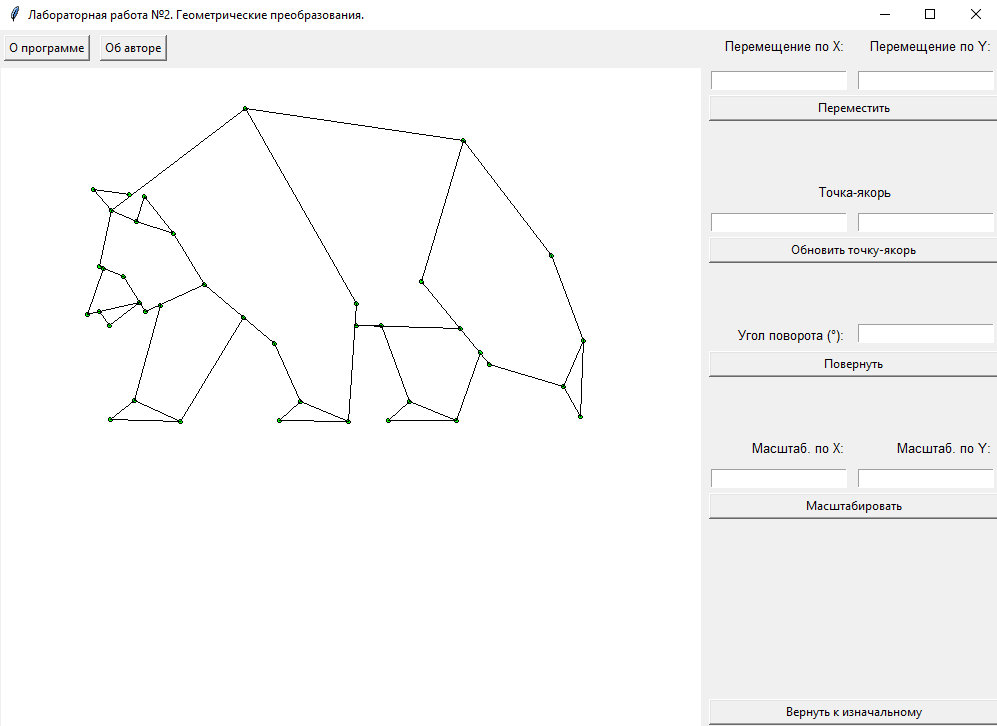
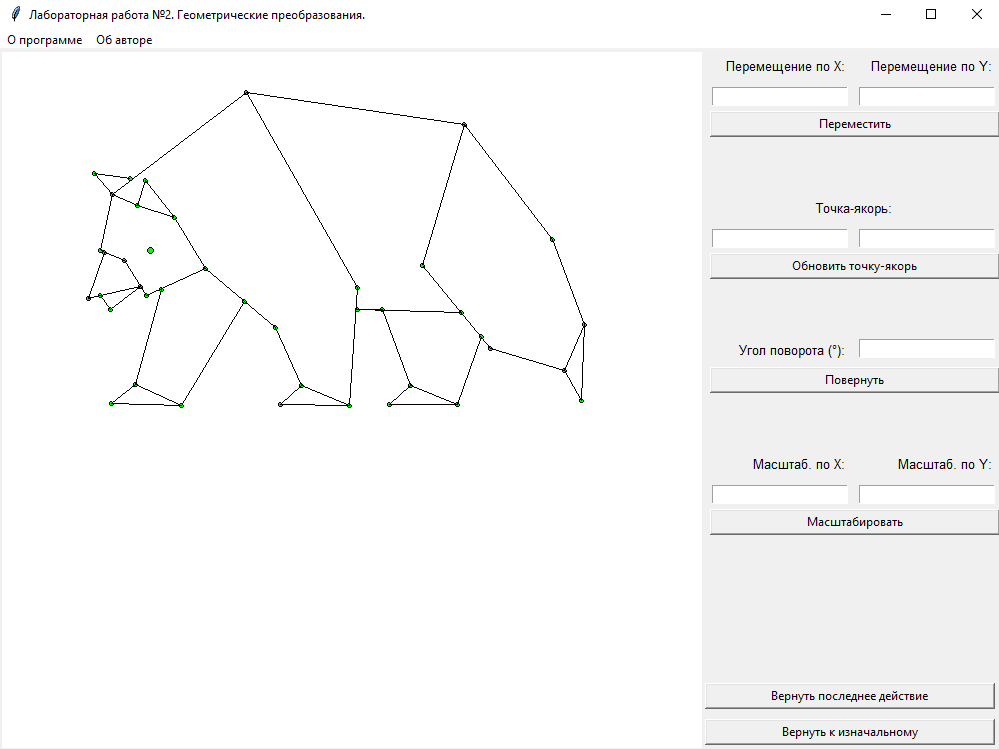
final version

diff --git a/lab_02/main.py b/lab_02/main.py
@@ -10,6 +10,7 @@ anchor = anchor_default = prev_anchor = [150, 200]
 prev_dx = prev_dy = 0
 prev_scale_x = prev_scale_y = 1
 last_action = -1
+angle = 0
 
 
 def array_preparation(file):
@@ -80,7 +81,7 @@ def create_triangle(arr, ind1, ind2, ind3):
 
 
 def perform_actions(action):
-    global arr, arr_default, anchor, anchor_default, last_action, prev_dx, prev_dy, prev_scale_x, prev_scale_y
+    global arr, arr_default, anchor, angle, anchor_default, last_action, prev_dx, prev_dy, prev_scale_x, prev_scale_y, prev_anchor
 
     if action == 0:
         create_drawing(arr_default, anchor_default)
@@ -109,6 +110,8 @@ def perform_actions(action):
             create_drawing(arr, anchor)
         except:
             tkmb.showerror("Ошибка", "Координаты могут задаваться только целыми числами")
+            entry_dx.delete(0, tk.END)
+            entry_dy.delete(0, tk.END)
         
         last_action = 1
     
@@ -124,6 +127,8 @@ def perform_actions(action):
             create_drawing(arr, anchor)
         except:
             tkmb.showerror("Ошибка", "Координаты могут задаваться только целыми числами")
+            entry_anchor_x.delete(0, tk.END)
+            entry_anchor_y.delete(0, tk.END)
         
         last_action = 2
     
@@ -142,6 +147,7 @@ def perform_actions(action):
             create_drawing(arr, anchor)
         except:
             tkmb.showerror("Ошибка", "Угол может задаваться только действительным числом")
+            entry_angle.delete(0, tk.END)
         
         last_action = 3
         
@@ -164,6 +170,8 @@ def perform_actions(action):
             create_drawing(arr, anchor)
         except:
             tkmb.showerror("Ошибка", "Масштабирование может задаваться только действительным числом")
+            entry_scale_x.delete(0, tk.END)
+            entry_scale_y.delete(0, tk.END)
         
         last_action = 4
     
@@ -172,36 +180,33 @@ def perform_actions(action):
         if last_action == 0:
             arr = copy.deepcopy(prev_arr)
             anchor = copy.deepcopy(prev_anchor)
-            create_drawing(arr, anchor)
         
         elif last_action == 1:
             for i in range(len(arr)):
                 arr[i][0] -= prev_dx
                 arr[i][1] -= prev_dy
-            
-            create_drawing(arr, anchor)
         
         elif last_action == 2:
             anchor = prev_anchor
-            create_drawing(arr, anchor)
         
         elif last_action == 3:
-            angle *= 0.8 * 180 / math.pi
-            angle = 360 - angle
+            angle = 2 * math.pi - angle
 
-            create_drawing(arr, anchor)
+            for i in range(len(arr)):
+                tmp_x = (arr[i][0] - anchor[0]) * math.cos(angle) - (arr[i][1] - anchor[1]) * math.sin(angle) + anchor[0]
+                tmp_y = (arr[i][0] - anchor[0]) * math.sin(angle) + (arr[i][1] - anchor[1]) * math.cos(angle) + anchor[1]
+                arr[i] = [tmp_x, tmp_y]
         
         elif last_action == 4:
             for i in range(len(arr)):
                 tmp_x = prev_scale_x * (arr[i][0] - anchor[0]) + anchor[0]
                 tmp_y = prev_scale_y * (arr[i][1] - anchor[1]) + anchor[1]
                 arr[i] = [tmp_x, tmp_y]
-            
-            create_drawing(arr, anchor)
         
         elif last_action == -1:
             tkmb.showinfo("Вернуть последнее действие", "Вернуть последнее действие можно только один раз")
-            
+        
+        create_drawing(arr, anchor)
         last_action = -1
 
     elif action == 6:
